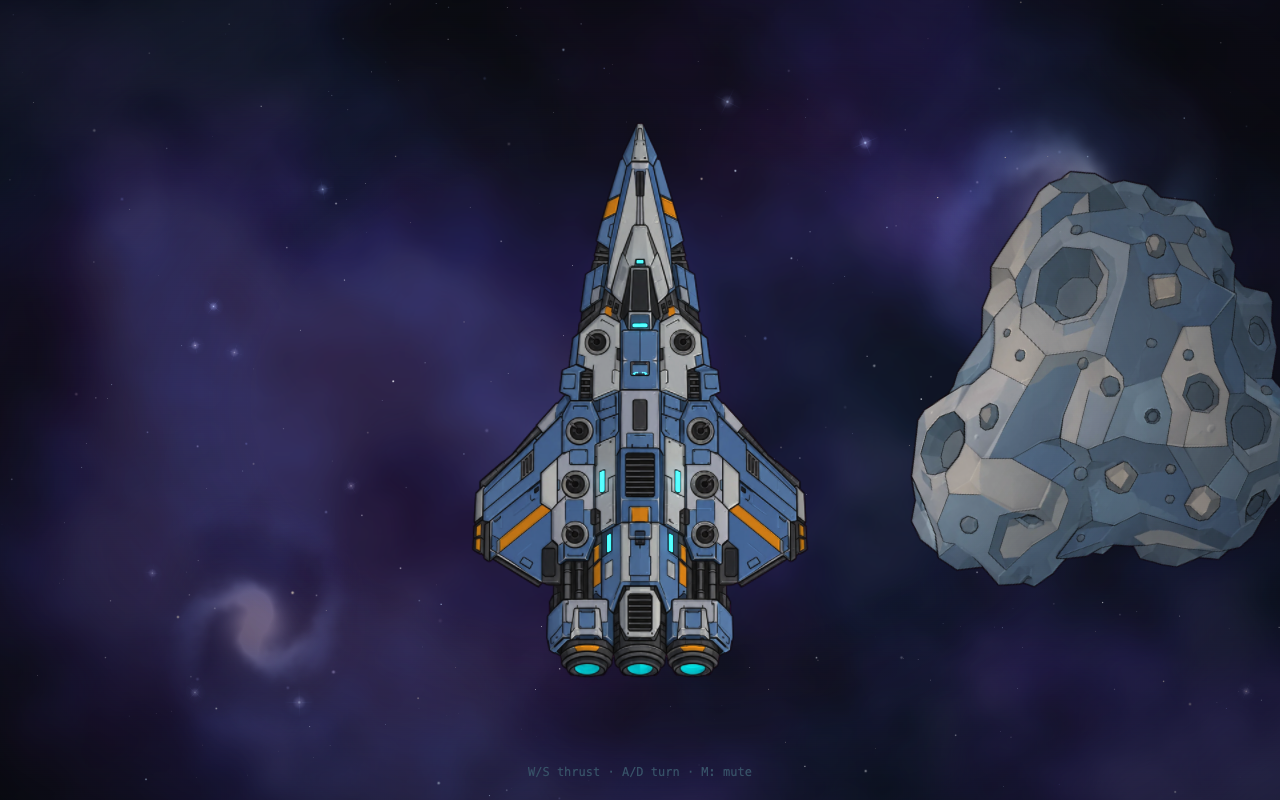
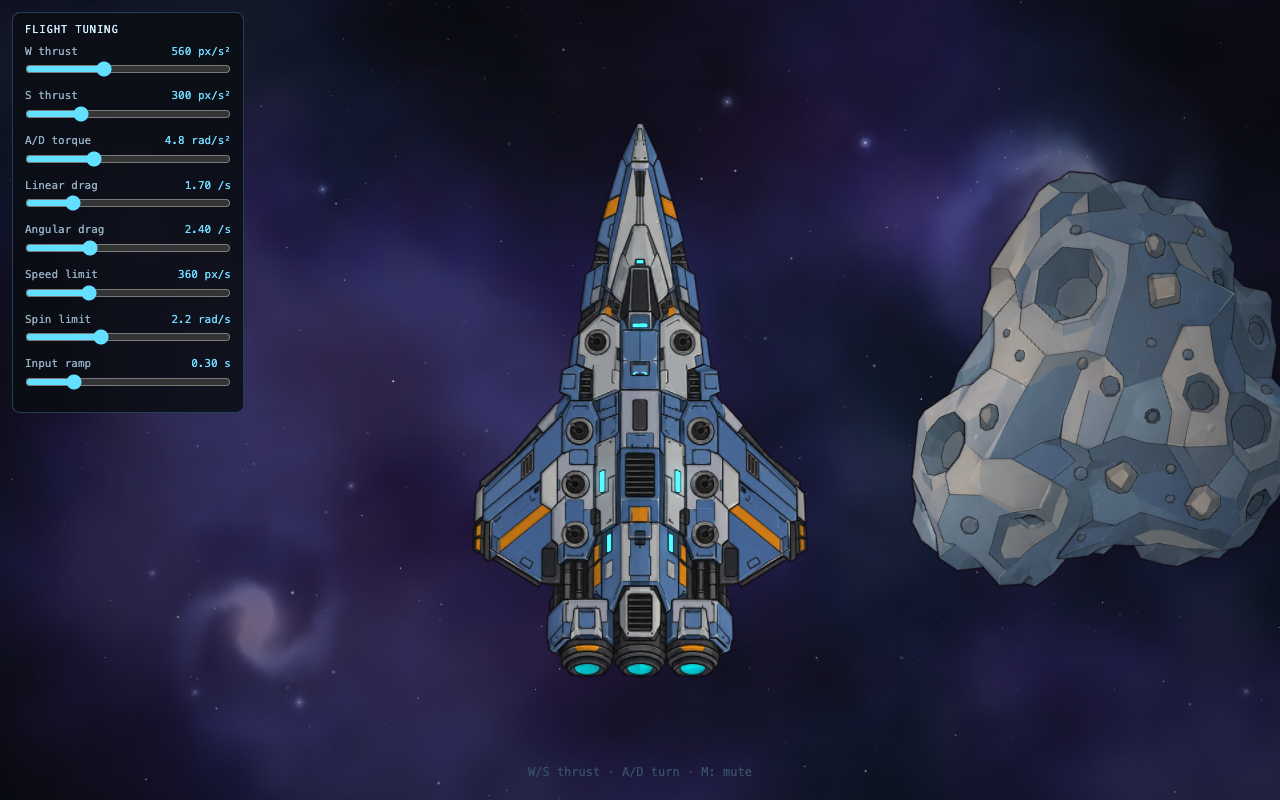
feat: add live WASD flight tuning sliders

Changed region(s): [[0.0, 0.0312, 0.1875, 0.5312]]

diff --git a/src/app/ship-flight.ts b/src/app/ship-flight.ts
@@ -7,6 +7,28 @@ export interface FlightControls {
   turnRight: boolean;
 }
 
+export interface FlightTuning {
+  forwardAccel: number;
+  reverseAccel: number;
+  angularAccel: number;
+  linearDrag: number;
+  angularDrag: number;
+  maxLinearSpeed: number;
+  maxAngularSpeed: number;
+  inputRampSeconds: number;
+}
+
+export const DEFAULT_FLIGHT_TUNING: FlightTuning = {
+  forwardAccel: 560,
+  reverseAccel: 300,
+  angularAccel: 4.8,
+  linearDrag: 1.7,
+  angularDrag: 2.4,
+  maxLinearSpeed: 360,
+  maxAngularSpeed: 2.2,
+  inputRampSeconds: 0.3,
+};
+
 export interface FlightState {
   /** World position in screen pixels at zoom 1, relative to the viewport center. */
   x: number;
@@ -20,16 +42,6 @@ export interface FlightState {
   /** Ramped input, -1..1. */
   angularInput: number;
 }
-
-export const INPUT_RAMP_SECONDS = 0.3;
-export const MAX_LINEAR_SPEED = 360;
-export const MAX_ANGULAR_SPEED = 2.2;
-
-const FORWARD_ACCEL = 560;
-const REVERSE_ACCEL = 300;
-const ANGULAR_ACCEL = 4.8;
-const LINEAR_DRAG = 1.7;
-const ANGULAR_DRAG = 2.4;
 
 function moveTowards(current: number, target: number, maxDelta: number): number {
   const delta = target - current;
@@ -50,44 +62,50 @@ export function createFlightState(x = 0, y = 0, rotation = 0): FlightState {
   };
 }
 
-export function stepFlight(state: FlightState, controls: FlightControls, dt: number): void {
+export function stepFlight(
+  state: FlightState,
+  controls: FlightControls,
+  dt: number,
+  tuning: FlightTuning = DEFAULT_FLIGHT_TUNING,
+): void {
   if (dt <= 0) return;
 
   const linearTarget = controls.forward ? 1 : controls.reverse ? -1 : 0;
   const angularTarget = controls.turnRight ? 1 : controls.turnLeft ? -1 : 0;
-  const maxInputStep = dt / INPUT_RAMP_SECONDS;
+  const rampSeconds = Math.max(tuning.inputRampSeconds, 0.0001);
+  const maxInputStep = dt / rampSeconds;
 
   state.linearInput = moveTowards(state.linearInput, linearTarget, maxInputStep);
   state.angularInput = moveTowards(state.angularInput, angularTarget, maxInputStep);
 
   // W is deliberately stronger than S.
-  const thrust = state.linearInput >= 0 ? FORWARD_ACCEL : REVERSE_ACCEL;
+  const thrust = state.linearInput >= 0 ? tuning.forwardAccel : tuning.reverseAccel;
   const forwardX = Math.sin(state.rotation);
   const forwardY = -Math.cos(state.rotation);
   state.vx += forwardX * thrust * state.linearInput * dt;
   state.vy += forwardY * thrust * state.linearInput * dt;
-  state.angularVelocity += state.angularInput * ANGULAR_ACCEL * dt;
+  state.angularVelocity += state.angularInput * tuning.angularAccel * dt;
 
   // Drag only while the corresponding input is non-zero. Once it ramps back to
-  // zero the ship coasts; velocity caps below keep that finite.
+  // zero the ship coasts; the speed limits below keep that finite.
   if (state.linearInput !== 0) {
-    const drag = Math.exp(-LINEAR_DRAG * dt);
+    const drag = Math.exp(-tuning.linearDrag * dt);
     state.vx *= drag;
     state.vy *= drag;
   }
   if (state.angularInput !== 0) {
-    state.angularVelocity *= Math.exp(-ANGULAR_DRAG * dt);
+    state.angularVelocity *= Math.exp(-tuning.angularDrag * dt);
   }
 
   const speed = Math.hypot(state.vx, state.vy);
-  if (speed > MAX_LINEAR_SPEED) {
-    const scale = MAX_LINEAR_SPEED / speed;
+  if (speed > tuning.maxLinearSpeed) {
+    const scale = tuning.maxLinearSpeed / speed;
     state.vx *= scale;
     state.vy *= scale;
   }
   state.angularVelocity = Math.max(
-    -MAX_ANGULAR_SPEED,
-    Math.min(MAX_ANGULAR_SPEED, state.angularVelocity),
+    -tuning.maxAngularSpeed,
+    Math.min(tuning.maxAngularSpeed, state.angularVelocity),
   );
 
   state.rotation += state.angularVelocity * dt;

diff --git a/src/app/flight-tuner.ts b/src/app/flight-tuner.ts
@@ -1,0 +1,130 @@
+import type { FlightTuning } from './ship-flight';
+
+interface SliderSpec {
+  key: keyof FlightTuning;
+  label: string;
+  min: number;
+  max: number;
+  step: number;
+  digits: number;
+  unit: string;
+}
+
+const SLIDERS: SliderSpec[] = [
+  { key: 'forwardAccel', label: 'W thrust', min: 0, max: 1500, step: 10, digits: 0, unit: 'px/s²' },
+  { key: 'reverseAccel', label: 'S thrust', min: 0, max: 1200, step: 10, digits: 0, unit: 'px/s²' },
+  {
+    key: 'angularAccel',
+    label: 'A/D torque',
+    min: 0,
+    max: 15,
+    step: 0.1,
+    digits: 1,
+    unit: 'rad/s²',
+  },
+  { key: 'linearDrag', label: 'Linear drag', min: 0, max: 8, step: 0.05, digits: 2, unit: '/s' },
+  { key: 'angularDrag', label: 'Angular drag', min: 0, max: 8, step: 0.05, digits: 2, unit: '/s' },
+  {
+    key: 'maxLinearSpeed',
+    label: 'Speed limit',
+    min: 10,
+    max: 1200,
+    step: 10,
+    digits: 0,
+    unit: 'px/s',
+  },
+  {
+    key: 'maxAngularSpeed',
+    label: 'Spin limit',
+    min: 0.1,
+    max: 6,
+    step: 0.1,
+    digits: 1,
+    unit: 'rad/s',
+  },
+  {
+    key: 'inputRampSeconds',
+    label: 'Input ramp',
+    min: 0.05,
+    max: 1.2,
+    step: 0.05,
+    digits: 2,
+    unit: 's',
+  },
+];
+
+const PANEL_STYLE: Partial<CSSStyleDeclaration> = {
+  position: 'fixed',
+  top: '12px',
+  left: '12px',
+  zIndex: '10',
+  width: '232px',
+  padding: '10px 12px',
+  borderRadius: '8px',
+  border: '1px solid rgba(90, 160, 200, 0.35)',
+  background: 'rgba(5, 9, 18, 0.86)',
+  color: '#9fb7c9',
+  font: '11px/1.35 ui-monospace, SFMono-Regular, Menlo, monospace',
+  backdropFilter: 'blur(6px)',
+  userSelect: 'none',
+};
+
+function format(value: number, spec: SliderSpec): string {
+  return `${value.toFixed(spec.digits)} ${spec.unit}`;
+}
+
+export interface FlightTuner {
+  element: HTMLElement;
+  destroy(): void;
+}
+
+/** Small live overlay for tuning the arcade flight constants. */
+export function createFlightTuner(tuning: FlightTuning): FlightTuner {
+  const root = document.createElement('div');
+  Object.assign(root.style, PANEL_STYLE);
+
+  const title = document.createElement('div');
+  title.textContent = 'FLIGHT TUNING';
+  title.style.cssText = 'margin-bottom:8px;color:#d8f3ff;letter-spacing:0.12em;font-size:10px;';
+  root.append(title);
+
+  for (const spec of SLIDERS) {
+    const row = document.createElement('div');
+    row.style.cssText = 'margin:7px 0;';
+
+    const header = document.createElement('div');
+    header.style.cssText = 'display:flex;justify-content:space-between;gap:8px;margin-bottom:2px;';
+
+    const label = document.createElement('span');
+    label.textContent = spec.label;
+
+    const value = document.createElement('span');
+    value.textContent = format(tuning[spec.key], spec);
+    value.style.cssText = 'color:#7fdfff;font-variant-numeric:tabular-nums;';
+
+    const input = document.createElement('input');
+    input.type = 'range';
+    input.min = String(spec.min);
+    input.max = String(spec.max);
+    input.step = String(spec.step);
+    input.value = String(tuning[spec.key]);
+    input.setAttribute('aria-label', spec.label);
+    input.style.cssText = 'width:100%;margin:0;accent-color:#6fe3ff;cursor:pointer;';
+
+    input.addEventListener('input', () => {
+      tuning[spec.key] = Number(input.value);
+      value.textContent = format(tuning[spec.key], spec);
+    });
+
+    header.append(label, value);
+    row.append(header, input);
+    root.append(row);
+  }
+
+  return {
+    element: root,
+    destroy(): void {
+      root.remove();
+    },
+  };
+}

diff --git a/tests/ship-flight.test.ts b/tests/ship-flight.test.ts
@@ -1,11 +1,5 @@
 import { describe, expect, it } from 'vitest';
-import {
-  INPUT_RAMP_SECONDS,
-  MAX_ANGULAR_SPEED,
-  MAX_LINEAR_SPEED,
-  createFlightState,
-  stepFlight,
-} from '../src/app/ship-flight';
+import { DEFAULT_FLIGHT_TUNING, createFlightState, stepFlight } from '../src/app/ship-flight';
 import type { FlightControls } from '../src/app/ship-flight';
 
 const idle: FlightControls = {
@@ -22,18 +16,18 @@ function press(partial: Partial<FlightControls>): FlightControls {
 describe('ship flight', () => {
   it('ramps input to full over INPUT_RAMP_SECONDS', () => {
     const state = createFlightState();
-    stepFlight(state, press({ forward: true }), INPUT_RAMP_SECONDS / 2);
+    stepFlight(state, press({ forward: true }), DEFAULT_FLIGHT_TUNING.inputRampSeconds / 2);
     expect(state.linearInput).toBeCloseTo(0.5, 5);
 
-    stepFlight(state, press({ forward: true }), INPUT_RAMP_SECONDS / 2);
+    stepFlight(state, press({ forward: true }), DEFAULT_FLIGHT_TUNING.inputRampSeconds / 2);
     expect(state.linearInput).toBe(1);
   });
 
   it('ramps angular input in both directions over the same time', () => {
     const left = createFlightState();
     const right = createFlightState();
-    stepFlight(left, press({ turnLeft: true }), INPUT_RAMP_SECONDS);
-    stepFlight(right, press({ turnRight: true }), INPUT_RAMP_SECONDS);
+    stepFlight(left, press({ turnLeft: true }), DEFAULT_FLIGHT_TUNING.inputRampSeconds);
+    stepFlight(right, press({ turnRight: true }), DEFAULT_FLIGHT_TUNING.inputRampSeconds);
     expect(left.angularInput).toBe(-1);
     expect(right.angularInput).toBe(1);
   });
@@ -57,14 +51,14 @@ describe('ship flight', () => {
 
   it('caps linear and angular speed', () => {
     const state = createFlightState();
-    state.vx = MAX_LINEAR_SPEED * 10;
-    state.vy = MAX_LINEAR_SPEED * 10;
-    state.angularVelocity = MAX_ANGULAR_SPEED * 10;
+    state.vx = DEFAULT_FLIGHT_TUNING.maxLinearSpeed * 10;
+    state.vy = DEFAULT_FLIGHT_TUNING.maxLinearSpeed * 10;
+    state.angularVelocity = DEFAULT_FLIGHT_TUNING.maxAngularSpeed * 10;
 
     stepFlight(state, idle, 1 / 60);
 
-    expect(Math.hypot(state.vx, state.vy)).toBeCloseTo(MAX_LINEAR_SPEED, 6);
-    expect(state.angularVelocity).toBeCloseTo(MAX_ANGULAR_SPEED, 6);
+    expect(Math.hypot(state.vx, state.vy)).toBeCloseTo(DEFAULT_FLIGHT_TUNING.maxLinearSpeed, 6);
+    expect(state.angularVelocity).toBeCloseTo(DEFAULT_FLIGHT_TUNING.maxAngularSpeed, 6);
   });
 
   it('coasts without drag once input is zero', () => {
@@ -81,9 +75,9 @@ describe('ship flight', () => {
     const state = createFlightState();
     state.vx = 100;
 
-    stepFlight(state, press({ forward: true }), INPUT_RAMP_SECONDS);
+    stepFlight(state, press({ forward: true }), DEFAULT_FLIGHT_TUNING.inputRampSeconds);
     const accelerated = Math.hypot(state.vx, state.vy);
-    stepFlight(state, idle, INPUT_RAMP_SECONDS);
+    stepFlight(state, idle, DEFAULT_FLIGHT_TUNING.inputRampSeconds);
 
     expect(accelerated).toBeGreaterThan(0);
     expect(state.linearInput).toBe(0);

diff --git a/src/app/lighting-scene.ts b/src/app/lighting-scene.ts
@@ -5,8 +5,9 @@ import { joinBaseUrl } from '../utils/paths';
 import { createBackground } from './background';
 import { createLitSprite } from './lit-sprite';
 import type { LightingState, LitSprite } from './lit-sprite';
-import { createFlightState, stepFlight } from './ship-flight';
+import { createFlightState, stepFlight, DEFAULT_FLIGHT_TUNING } from './ship-flight';
 import type { FlightControls } from './ship-flight';
+import { createFlightTuner } from './flight-tuner';
 
 export interface Scene {
   setMuted(muted: boolean): void;
@@ -65,6 +66,7 @@ export async function createScene(app: Application): Promise<Scene> {
   app.stage.addChild(hint);
 
   const flight = createFlightState();
+  const tuning = { ...DEFAULT_FLIGHT_TUNING };
   const asteroidWorld = { x: 0, y: 0 };
   const controls: FlightControls = {
     forward: false,
@@ -136,7 +138,7 @@ export async function createScene(app: Application): Promise<Scene> {
     const deltaSeconds = Math.min(ticker.deltaMS / 1000, MAX_DELTA_SECONDS);
     lighting.time += deltaSeconds;
 
-    stepFlight(flight, controls, deltaSeconds);
+    stepFlight(flight, controls, deltaSeconds, tuning);
     asteroid.mesh.rotation -= deltaSeconds * 0.22;
 
     layout();
@@ -170,6 +172,9 @@ export async function createScene(app: Application): Promise<Scene> {
     controls.turnRight = false;
   };
 
+  const flightTuner = createFlightTuner(tuning);
+  document.body.append(flightTuner.element);
+
   window.addEventListener('keydown', onKeyDown);
   window.addEventListener('keyup', onKeyUp);
   window.addEventListener('blur', onBlur);
@@ -188,6 +193,7 @@ export async function createScene(app: Application): Promise<Scene> {
       window.removeEventListener('keydown', onKeyDown);
       window.removeEventListener('keyup', onKeyUp);
       window.removeEventListener('blur', onBlur);
+      flightTuner.destroy();
       ship.mesh.destroy({ children: true });
       asteroid.mesh.destroy({ children: true });
       hint.destroy();

diff --git a/README.md b/README.md
@@ -54,6 +54,7 @@ src/
   app/create-app.ts       PixiJS Application bootstrap
   app/lighting-scene.ts   Ship + asteroid lighting demo (keep small)
   app/ship-flight.ts      Pure ramped WASD flight model (tested)
+  app/flight-tuner.ts     Live overlay sliders for flight tuning
   app/lit-sprite.ts       Custom normal-map Mesh shader (directional + emissive)
   app/background.ts       Layered procedural background (nebulas, galaxies, stars)
   app/background-textures.ts  One-time procedural canvas textures (nebula/galaxy/star/flare)
@@ -80,6 +81,8 @@ docs/                     Architecture decisions, reference art and agent workfl
   thrusting, and speeds are capped.
 - The ship flies on the **near dust layer**; the camera smoothly pans with it so it stays in the
   center region. The asteroid is fixed on that layer.
+- The top-left **FLIGHT TUNING** panel has live sliders for thrust, torque, linear/angular drag,
+  speed/spin limits and input ramp.
 - **Drag the canvas** to look around (the follow cam eases back to the ship); **scroll / pinch**
   zooms out from the default 1× (`0.02×–1×`, 50× max zoom-out). **Double-click** resets zoom.
 - **Click** for the placeholder sound; **M** mutes/unmutes.

diff --git a/AGENTS.md b/AGENTS.md
@@ -51,6 +51,7 @@ behaviour, also run `pnpm browser:inspect` and check the screenshot.
   input. Places both objects with `Background.getDustTransform()` on the near dust layer.
 - `src/app/ship-flight.ts` — pure ramped arcade flight model (0.3 s input ramp, thrust, drag,
   speed caps). Unit-tested in `tests/ship-flight.test.ts`.
+- `src/app/flight-tuner.ts` — live DOM slider overlay that mutates `FlightTuning`; dev-facing.
 - `src/app/lit-sprite.ts` — custom normal-map Mesh shader (directional light, emissive/glow).
 - `src/app/background.ts` — layered procedural background (nebulas, galaxies, stars, flares)
   and the smoothed camera that follows the ship.
